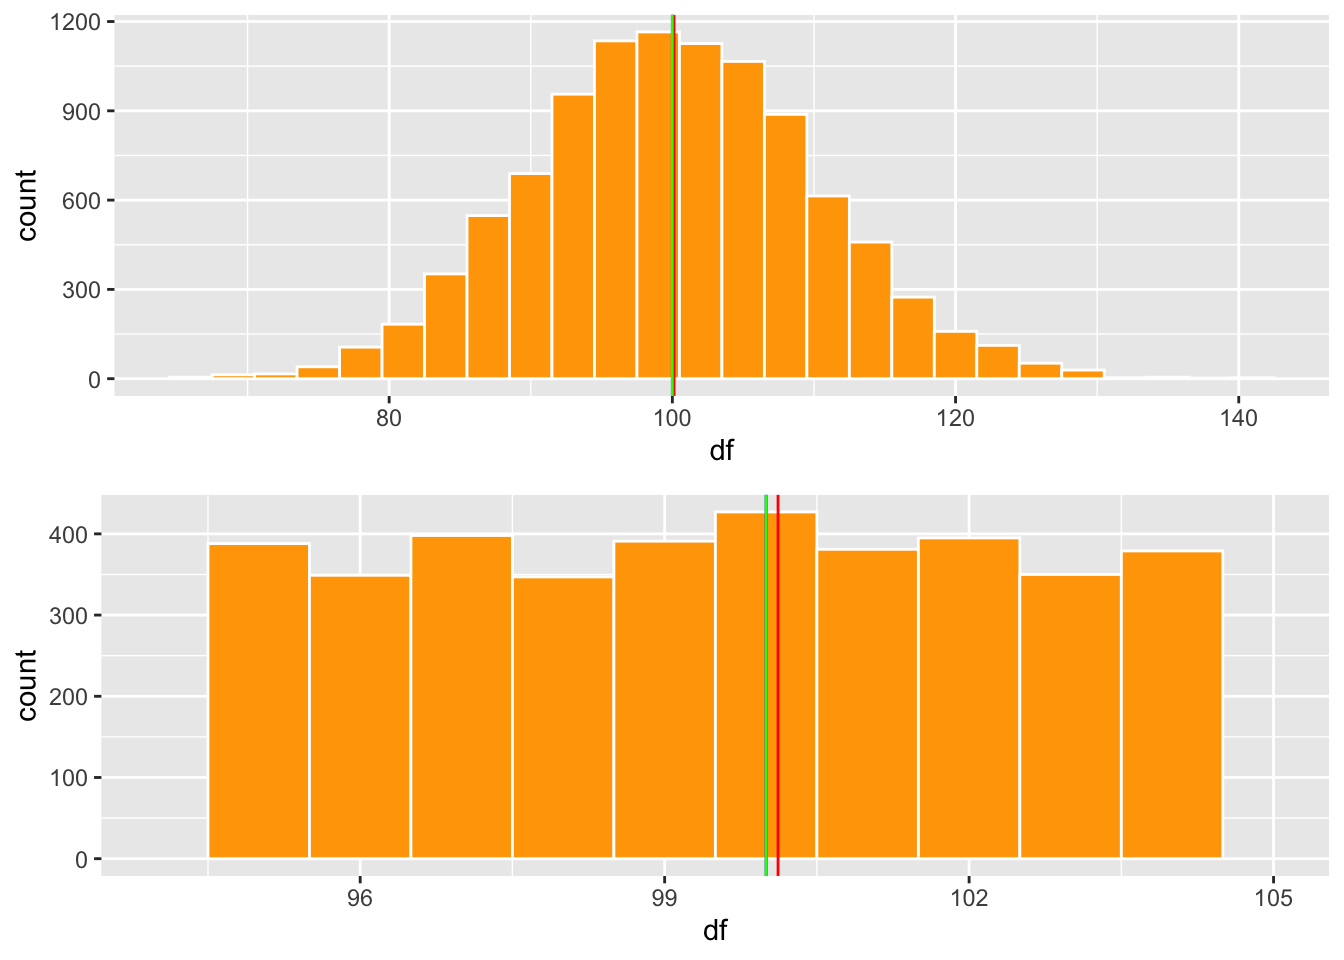
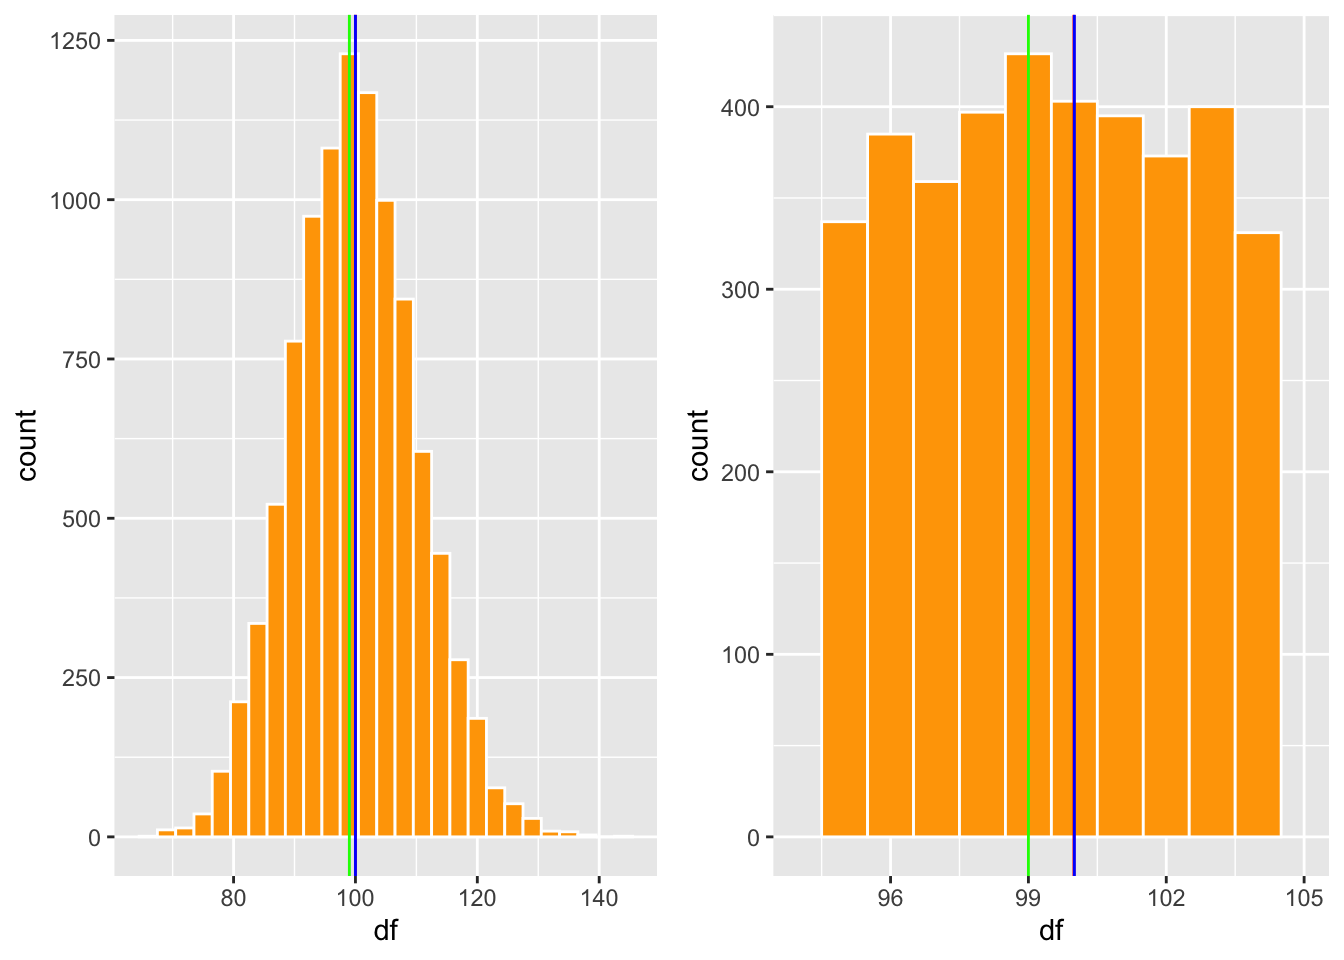
T3, gridExtra

diff --git a/T3_Medidas_tendencia_central.html b/T3_Medidas_tendencia_central.html
@@ -563,15 +563,9 @@ library(statip)</code></pre>
 <pre class="r"><code>df=rpois(10000, 100)
 df1=data.frame(df)
 head(df1, n=2)</code></pre>
-<table class="huxtable" style="border-collapse: collapse; border: 0px; margin-bottom: 2em; margin-top: 2em; ; margin-left: auto; margin-right: auto;  " id="tab:rpois">
-<col><tr>
-<th style="vertical-align: top; text-align: right; white-space: normal; border-style: solid solid solid solid; border-width: 0.4pt 0.4pt 0.4pt 0.4pt;    padding: 6pt 6pt 6pt 6pt; font-weight: bold;">df</th></tr>
-<tr>
-<td style="vertical-align: top; text-align: right; white-space: normal; border-style: solid solid solid solid; border-width: 0.4pt 0.4pt 0pt 0.4pt;    padding: 6pt 6pt 6pt 6pt; background-color: rgb(242, 242, 242); font-weight: normal;">103</td></tr>
-<tr>
-<td style="vertical-align: top; text-align: right; white-space: normal; border-style: solid solid solid solid; border-width: 0pt 0.4pt 0.4pt 0.4pt;    padding: 6pt 6pt 6pt 6pt; font-weight: normal;">110</td></tr>
-</table>
-
+<pre><code>##    df
+## 1 110
+## 2  89</code></pre>
 <p>Lo que uno observa es que los tres valores son muy cercano uno del otro.</p>
 <pre class="r"><code>library(statip)
 #mean(df1$df)
@@ -594,7 +588,7 @@ mod=statip::mfv(df1$df)</code></pre>
   geom_vline(aes(xintercept = mod), colour=&quot;green&quot;)+
   xlim(94,105)+
   theme(legend.position = &quot;none&quot;)</code></pre>
-<pre class="r"><code>gridExtra::grid.arrange(a,b, ncol=1)</code></pre>
+<pre class="r"><code>gridExtra::grid.arrange(a,b, ncol=2)</code></pre>
 <p><img src="T3_Medidas_tendencia_central_files/figure-html/together-1.png" width="672" /></p>
 <div id="distribución-cuando-los-tres-valores-de-tendencia-centrtal-no-son-iguales." class="section level2">
 <h2>Distribución cuando los tres valores de tendencia centrtal no son iguales.</h2>
@@ -638,28 +632,19 @@ grid.arrange(c,d, ncol=2)</code></pre>
 <pre class="r"><code>dfBin=replicate(10000,rbinom(length(.6), size=1,prob =0.6))
 dfBin=data.frame(dfBin)
 head(dfBin)</code></pre>
-<p><table class="huxtable" style="border-collapse: collapse; border: 0px; margin-bottom: 2em; margin-top: 2em; ; margin-left: auto; margin-right: auto;  " id="tab:rbinom">
-<col><tr>
-<th style="vertical-align: top; text-align: right; white-space: normal; border-style: solid solid solid solid; border-width: 0.4pt 0.4pt 0.4pt 0.4pt;    padding: 6pt 6pt 6pt 6pt; font-weight: bold;">dfBin</th></tr>
-<tr>
-<td style="vertical-align: top; text-align: right; white-space: normal; border-style: solid solid solid solid; border-width: 0.4pt 0.4pt 0pt 0.4pt;    padding: 6pt 6pt 6pt 6pt; background-color: rgb(242, 242, 242); font-weight: normal;">1</td></tr>
-<tr>
-<td style="vertical-align: top; text-align: right; white-space: normal; border-style: solid solid solid solid; border-width: 0pt 0.4pt 0pt 0.4pt;    padding: 6pt 6pt 6pt 6pt; font-weight: normal;">0</td></tr>
-<tr>
-<td style="vertical-align: top; text-align: right; white-space: normal; border-style: solid solid solid solid; border-width: 0pt 0.4pt 0pt 0.4pt;    padding: 6pt 6pt 6pt 6pt; background-color: rgb(242, 242, 242); font-weight: normal;">1</td></tr>
-<tr>
-<td style="vertical-align: top; text-align: right; white-space: normal; border-style: solid solid solid solid; border-width: 0pt 0.4pt 0pt 0.4pt;    padding: 6pt 6pt 6pt 6pt; font-weight: normal;">1</td></tr>
-<tr>
-<td style="vertical-align: top; text-align: right; white-space: normal; border-style: solid solid solid solid; border-width: 0pt 0.4pt 0pt 0.4pt;    padding: 6pt 6pt 6pt 6pt; background-color: rgb(242, 242, 242); font-weight: normal;">1</td></tr>
-<tr>
-<td style="vertical-align: top; text-align: right; white-space: normal; border-style: solid solid solid solid; border-width: 0pt 0.4pt 0.4pt 0.4pt;    padding: 6pt 6pt 6pt 6pt; font-weight: normal;">1</td></tr>
-</table>
- Ahora vamos a producir el gráfico. Lo que uno observa es que el promedio esta en el centro cerca de .6, pero no hay ningún dato cerca del promedio. El promedio no representa la “tendencia central” de la distribución.</p>
+<pre><code>##   dfBin
+## 1     1
+## 2     1
+## 3     1
+## 4     0
+## 5     1
+## 6     1</code></pre>
+<p>Ahora vamos a producir el gráfico. Lo que uno observa es que el promedio esta en el centro cerca de .6, pero no hay ningún dato cerca del promedio. El promedio no representa la “tendencia central” de la distribución.</p>
 <pre class="r"><code>mea=mean(dfBin$dfBin)
 med=median(dfBin$dfBin)
 mod=mfv(dfBin$dfBin)
 mea</code></pre>
-<pre><code>## [1] 0.6023</code></pre>
+<pre><code>## [1] 0.6028</code></pre>
 <pre class="r"><code>ggplot(dfBin, aes(dfBin))+
   geom_histogram(fill=&quot;orange&quot;, colour=&quot;white&quot;)+
   geom_vline(aes(xintercept = mea), colour=&quot;red&quot;)+
